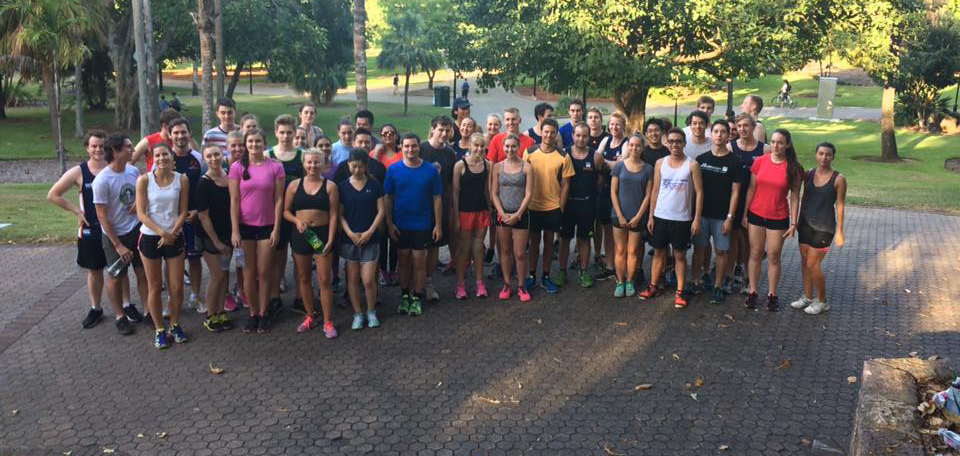
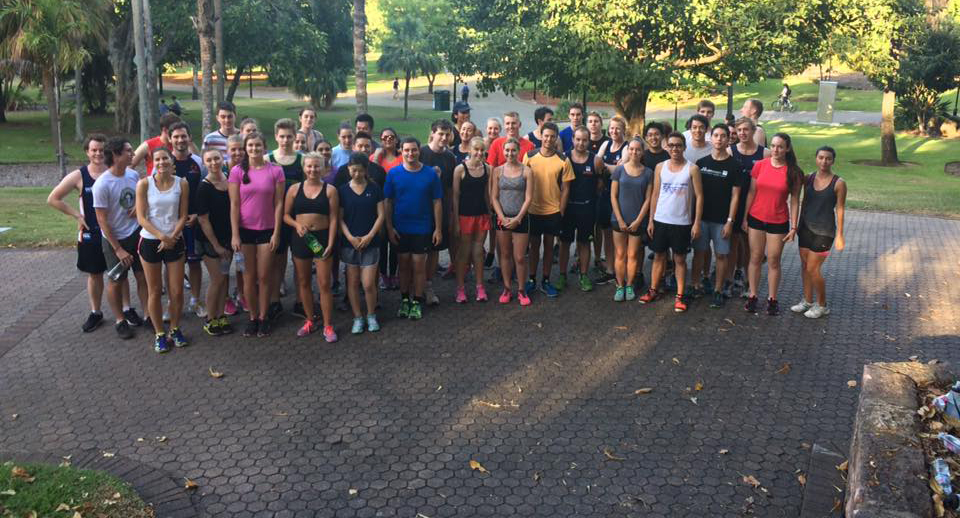
Fixes issue with links not breaking even though they are wider than the screen. Changes group photo to the photo of 2016. Need to fix carousel to look good on iPad (currently looks horrible).

diff --git a/index.html b/index.html
@@ -225,7 +225,7 @@
 							<a href="http://www.bridgetobrisbane.com.au/">http://www.bridgetobrisbane.com.au/</a>
 							<br>
 							<br>
-						</dd>@
+						</dd>
 
 						<dt>Tough Mudder</dt>
 						<dd class="text-left">
@@ -605,8 +605,8 @@
 						<div class="col-md-4 col-md-offset-1">
 							<img class="img-responsive" src="./public/img/logo-downunderbar.jpg" alt="Down Under Bar">
 							<p>
-								<a href="https://www.facebook.com/downunderbarbrisbane/">https://www.facebook.com/downunderbarbrisbane/</a><br>
-								<a href="http://www.stayatbase.com/">http://www.stayatbase.com/</a><br>
+								<a class="dont-break-out" href="http://www.stayatbase.com/">http://www.stayatbase.com/</a><br>
+								<a class="dont-break-out" href="https://www.facebook.com/downunderbarbrisbane/">https://www.facebook.com/downunderbarbrisbane/</a><br>
 								
 								Brisbane is the perfect place to party, with its superb weather, bars, clubs and pubs, and the Base Backpackers Brisbane Central youth hostel is located in the centre of all the action!
 								<br>
@@ -614,11 +614,11 @@
 								<br>
 								Downstairs the Down Under Bar is where you can go full on, flat out! Come on down to Brisbane's most famous backpacker bar where you can win great prizes, dance the night away: or even meet Mr/Mrs Right (or Mr/Mrs Right Now…). If you're after something a little quieter then our Zi Bar does great food and coffee, with regular functions to keep you entertainement.
 							</p>
+							<br>
 							<img class="img-responsive" src="./public/img/logo-intraining.png" alt="intraining">
 							<p>
-								<a href="http://intraining.com.au/">http://intraining.com.au/</a><br>
-								<a href="https://www.facebook.com/intrainingshop/">https://www.facebook.com/intrainingshop/</a><br>
-								<br>
+								<a class="dont-break-out" href="http://intraining.com.au/">http://intraining.com.au/</a><br>
+								<a class="dont-break-out" href="https://www.facebook.com/intrainingshop/">https://www.facebook.com/intrainingshop/</a><br>
 								
 								Our goal at intraining is to share the joy of running with the community.  We are the one stop running shop where you can find the best advice for all your running needs.  We help people of all abilities find the best pair of running shoes to suit you.
 								<br>
@@ -630,35 +630,39 @@
 								<br>
 								The two stores are located at 33 Park Road, Milton and Indooroopilly Shopping Centre.
 							</p>
+							<br>
 							
 						</div>
 						<div class="col-md-4 col-md-offset-2">
 							<img class="img-responsive" src="./public/img/logo-injinji.jpg" alt="Injinji">
 							<p>
-								<a href="https://www.facebook.com/InjinjiPP/">https://www.facebook.com/InjinjiPP/</a><br>
-								<a href="http://www.injinjiperformanceshop.com.au/">http://www.injinjiperformanceshop.com.au/</a><br>
+								<a class="dont-break-out" href="http://www.injinjiperformanceshop.com.au/">http://www.injinjiperformanceshop.com.au/</a><br>
+								<a class="dont-break-out" href="https://www.facebook.com/InjinjiPP/">https://www.facebook.com/InjinjiPP/</a><br>
 								 
 								Injinji, pronounced (In-gin-gee), which means to reach one's peak of performance, is dedicated to helping athletes attain their personal best by offering a five-toe-sleeve designed, seamless, anti-fricion interface that allows the foot to perform naturally and efficiently inside any shoe. Injinji Performance Products is a proud distributor for leading high quality American athletic apparel and footwear brands in Australia.<br>
 								Their products include Injinji Performance Toesocks, Altra Zero Drop Footwear, Body Glide Anti-Chafe Balm, Ultimate Direction, Armpocket Armband, Yankz Surelace  and, Zensah Compression.
 							</p>
+							<br>
 							<img class="img-responsive" src="./public/img/logo-tomtom.jpg" alt="TomTom">
 							<p>
-								<a href="http://www.tomtom.com/en_au/sports/fitness-watches/">http://www.tomtom.com/en_au/sports/fitness-watches/</a><br>
-								<a href="https://www.facebook.com/TomTomAUNZ/">https://www.facebook.com/TomTomAUNZ/</a><br>
+								<a class="dont-break-out" href="http://www.tomtom.com/en_au/sports/fitness-watches/">http://www.tomtom.com/en_au/sports/fitness-watches/</a><br>
+								<a class="dont-break-out" href="https://www.facebook.com/TomTomAUNZ/">https://www.facebook.com/TomTomAUNZ/</a><br>
 								
 								At TomTom our mission is to make technology so easy to use, that everyone can benefit from it.
 								<br>
 								Their sports watches offer a number of cool features including; over 500 songs of music storage, 24/7 activity tracking, built-in heart rate monitor, automatic sleep tracking, wireless syncing, water resistant, customizable straps.
 							</p>
+							<br>
 							<img class="img-responsive" src="./public/img/logo-healthstream.png" alt="Healthstream QUT">
 							<p>
-								<a href="http://www.healthstreamqut.com.au/">http://www.healthstreamqut.com.au/</a><br>
-								<a href="https://www.facebook.com/HealthstreamQutGardensPoint/">Healthstream Facebook Page</a><br>
+								<a class="dont-break-out" href="http://www.healthstreamqut.com.au/">http://www.healthstreamqut.com.au/</a><br>
+								<a class="dont-break-out" href="https://www.facebook.com/HealthstreamQutGardensPoint/">https://www.facebook.com/HealthstreamQutGardensPoint/</a><br>
 								 
 								Healthstream Fitness Club and Aquatics Centres are your complete health and fitness facility. We offer a wide variety of facilities at Kelvin Grove and Gardens Point QUT campuses including a state of the art Fitness club, Olympic standard Swimming pool and Sports stadium. We also offer a range of services including Personal Training, massage and fitness certification in partnership with AIPT.
 								<br>
 								You don’t need to be a student or QUT staff to join the Healthstream QUT community. Healthstream QUT is open to the general public and members from all over are welcome!
 							</p>
+							<br>
 
 							
 						</div>

diff --git a/public/css/app.css b/public/css/app.css
@@ -127,6 +127,26 @@ a.session-box:hover {
 	color: #ff9900;
 }
 
+.dont-break-out {
+
+	/* These are technically the same, but use both */
+	overflow-wrap: break-word;
+	word-wrap: break-word;
+
+	-ms-word-break: break-all;
+	/* This is the dangerous one in WebKit, as it breaks things wherever */
+	word-break: break-all;
+	/* Instead use this non-standard one: */
+	word-break: break-word;
+
+	/* Adds a hyphen where the word breaks, if supported (No Blink) */
+	-ms-hyphens: auto;
+	-moz-hyphens: auto;
+	-webkit-hyphens: auto;
+	hyphens: auto;
+
+}
+
 
 
 /* Navbar */
